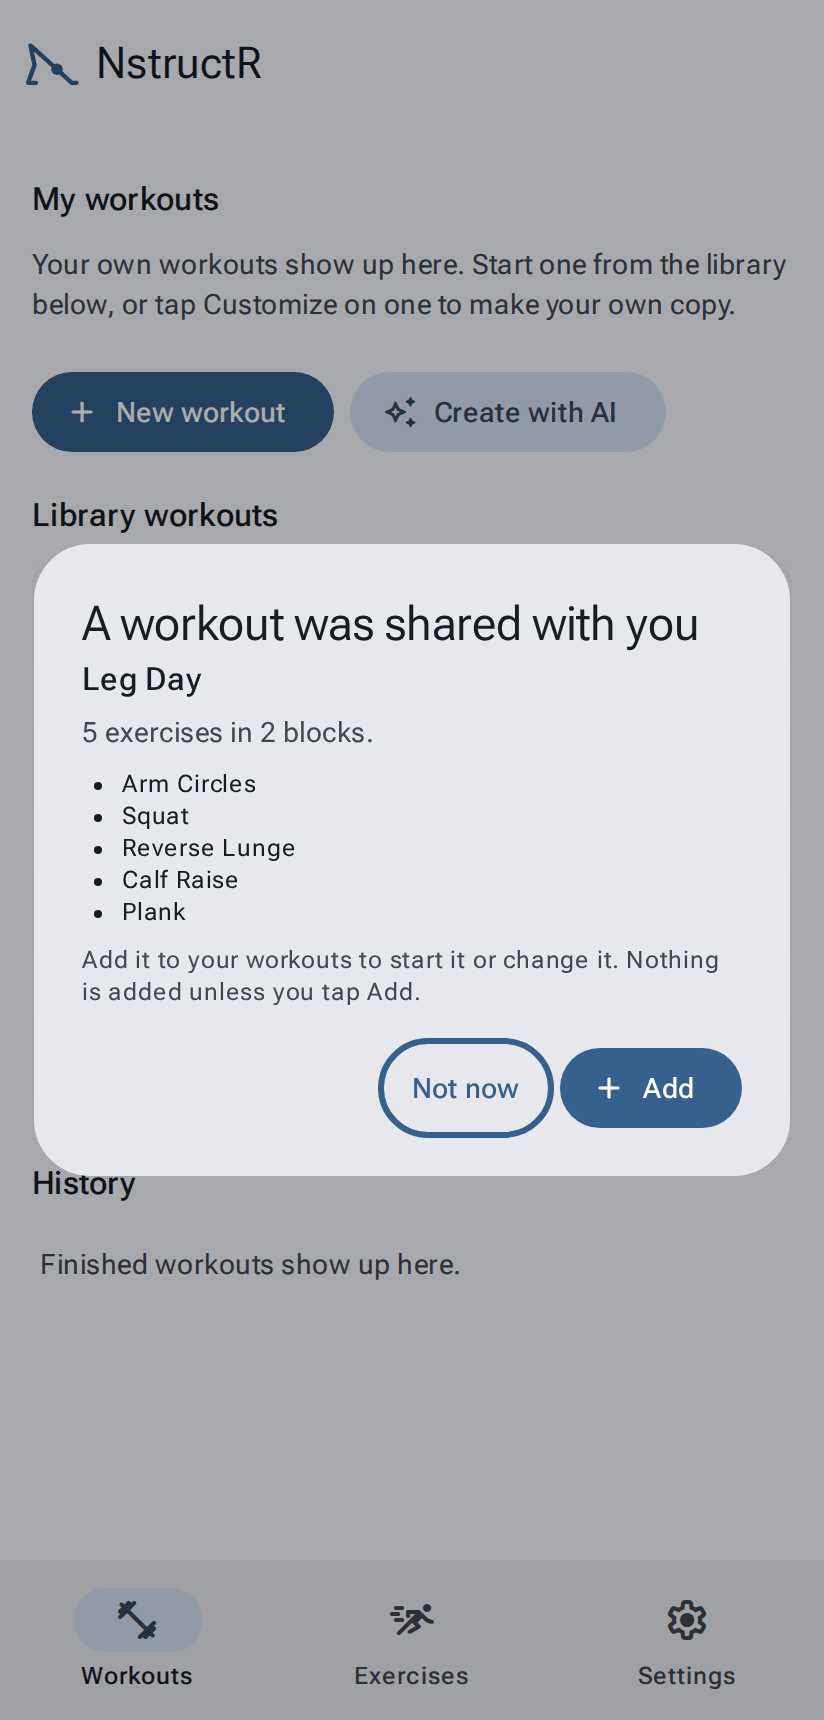
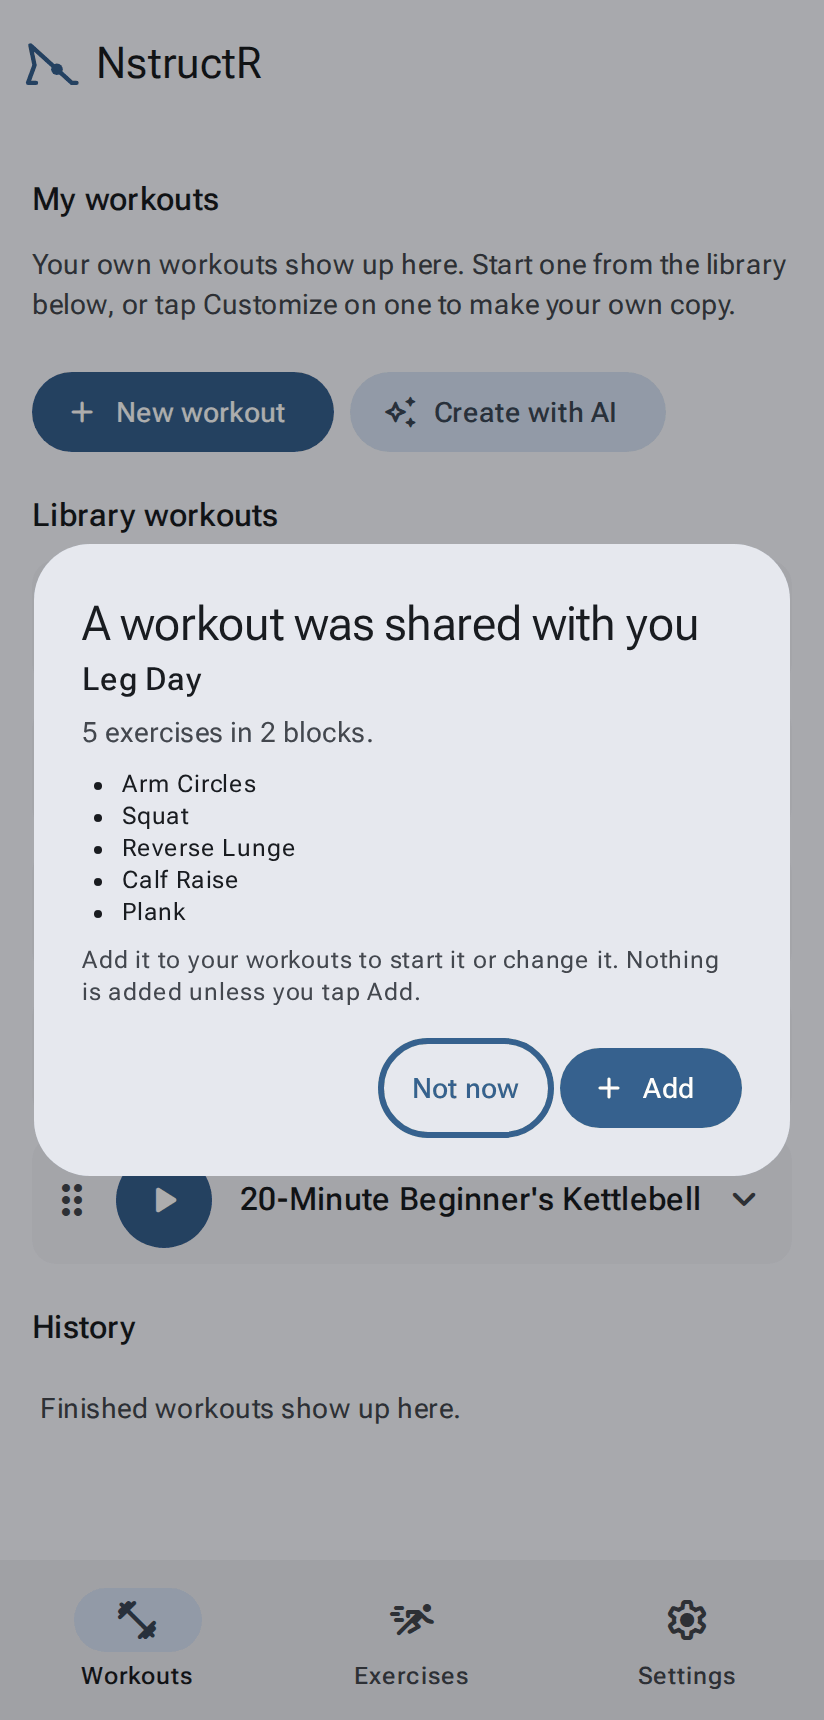
20-Minute Beginner's Resistance Band, third in the library order
One band, no door anchor: pull-aparts and lateral walk to warm up; squat, RDL and
glute bridge; seated row, chest press and overhead press; curls and overhead
triceps. 19.8 min with Coach (17.2 without).

Claude-Session: https://claude.ai/code/session_0133kyx5MPf8aRU2sQwm2BG7

Changed region(s): [[0.0303, 0.6779, 0.8495, 0.832], [0.4551, 0.8012, 0.5461, 0.832]]

diff --git a/HANDOFF.md b/HANDOFF.md
@@ -23,7 +23,7 @@ cutouts and flash sit along the bottom), no accidental skips.
 History: it started as "Pose Player" (a yoga pose animator), became "Motion Guide" (general exercise animator),
 and is now **NstructR**, with Workouts as the focus. Old names survive in localStorage keys on purpose (§11).
 
-Library today: **263 exercises, 4 workouts** (20-minute beginner's yoga, Pilates, free weights and kettlebell, Sep 2026, timed with Coach on (its run-through before each set and side) at the default rests (5 s, 10 s); about 15–17 minutes without Coach). Their default order is `library/workout-order.json` (the build sorts the bundle by it and fails if a workout is missing from it); a person's own order (`nstructr-libwk-order-v1`) comes first.
+Library today: **263 exercises, 5 workouts** (20-minute beginner's yoga, Pilates, resistance band, free weights and kettlebell, Sep 2026, timed with Coach on (its run-through before each set and side) at the default rests (5 s, 10 s); about 15–17 minutes without Coach). Their default order is `library/workout-order.json` (the build sorts the bundle by it and fails if a workout is missing from it); a person's own order (`nstructr-libwk-order-v1`) comes first.
 
 | Collection | Count | Notes |
 |---|---|---|

diff --git a/docs/collection-research.md b/docs/collection-research.md
@@ -154,7 +154,8 @@ ChatGPT, Claude and Copilot open with it copied to paste instead of filled in.
 Library workouts built from what's here, timed at the default rests (5 s between exercises, 10 s between sets)
 with Coach on (about 15–17 minutes without): **Yoga** (a mat, `beginner-yoga-20`), **Pilates** (a mat; the classical beginner opening, then beginner basics such as glute bridge,
 dead bug, bird dog, clamshell and side kick, `beginner-pilates-20`), **Free weights** (dumbbells only; a new Dumbbell Floor Press for the chest,
-`beginner-free-weights-20`), **Kettlebell** (one bell, `beginner-kettlebell-20`). For it, batch 16
+`beginner-free-weights-20`), **Resistance band** (one band, no door anchor, `beginner-resistance-band-20`),
+**Kettlebell** (one bell, `beginner-kettlebell-20`). For it, batch 16
 (`tools/variants/batch-16-kettlebell.cjs`) added ✅ Halo, Single-Arm Row, Overhead Press, Goblet Reverse Lunge, Sumo
 Squat, Romanian Deadlift, Suitcase Carry and Russian Twist. Not yet: Around the World (the bell passes from hand to
 hand, and a prop is held by the same hand or hands all the way through), Turkish Get-Up and Clean (many steps).

diff --git a/wiki/Workouts.md b/wiki/Workouts.md
@@ -9,8 +9,8 @@ The **Workouts** tab has three parts:
 - **My workouts**: the ones you made, customised or received. Tap a card to expand it (time, number of exercises,
   equipment, safety notes, **Edit**, **Share**). Tap ▶ to start.
 - **Library workouts**: ready-made routines. Start one as it is, or tap **Customize** to make your own copy. There
-  are 20-minute beginner's workouts for yoga and Pilates (a mat, nothing else), free weights (dumbbells) and
-  kettlebell (one bell). The 20 minutes are with **Coach** (Settings › Instruction); without it they take 15–17.
+  are 20-minute beginner's workouts for yoga and Pilates (a mat, nothing else), resistance band (one band), free
+  weights (dumbbells) and kettlebell (one bell). The 20 minutes are with **Coach** (Settings › Instruction); without it they take 15–17.
 - **History**: finished workouts, with the date, how long they took and how many exercises you did. Delete an
   entry with its bin, or **Clear** all of them.
 

diff --git a/wiki/Getting-started.md b/wiki/Getting-started.md
@@ -45,6 +45,6 @@ See [Working out](Working-out.md) for the controls.
 
 ## Where next
 
-- Try a workout: on **Workouts**, tap ▶ on **20-Minute Beginner's Yoga** (or Pilates, Free Weights, Kettlebell).
+- Try a workout: on **Workouts**, tap ▶ on **20-Minute Beginner's Yoga** (or Pilates, Resistance Band, Free Weights, Kettlebell).
 - Look up an exercise: open **Exercises** and tap any card.
 - Make your own workout: [Workouts](Workouts.md#make-your-own).
